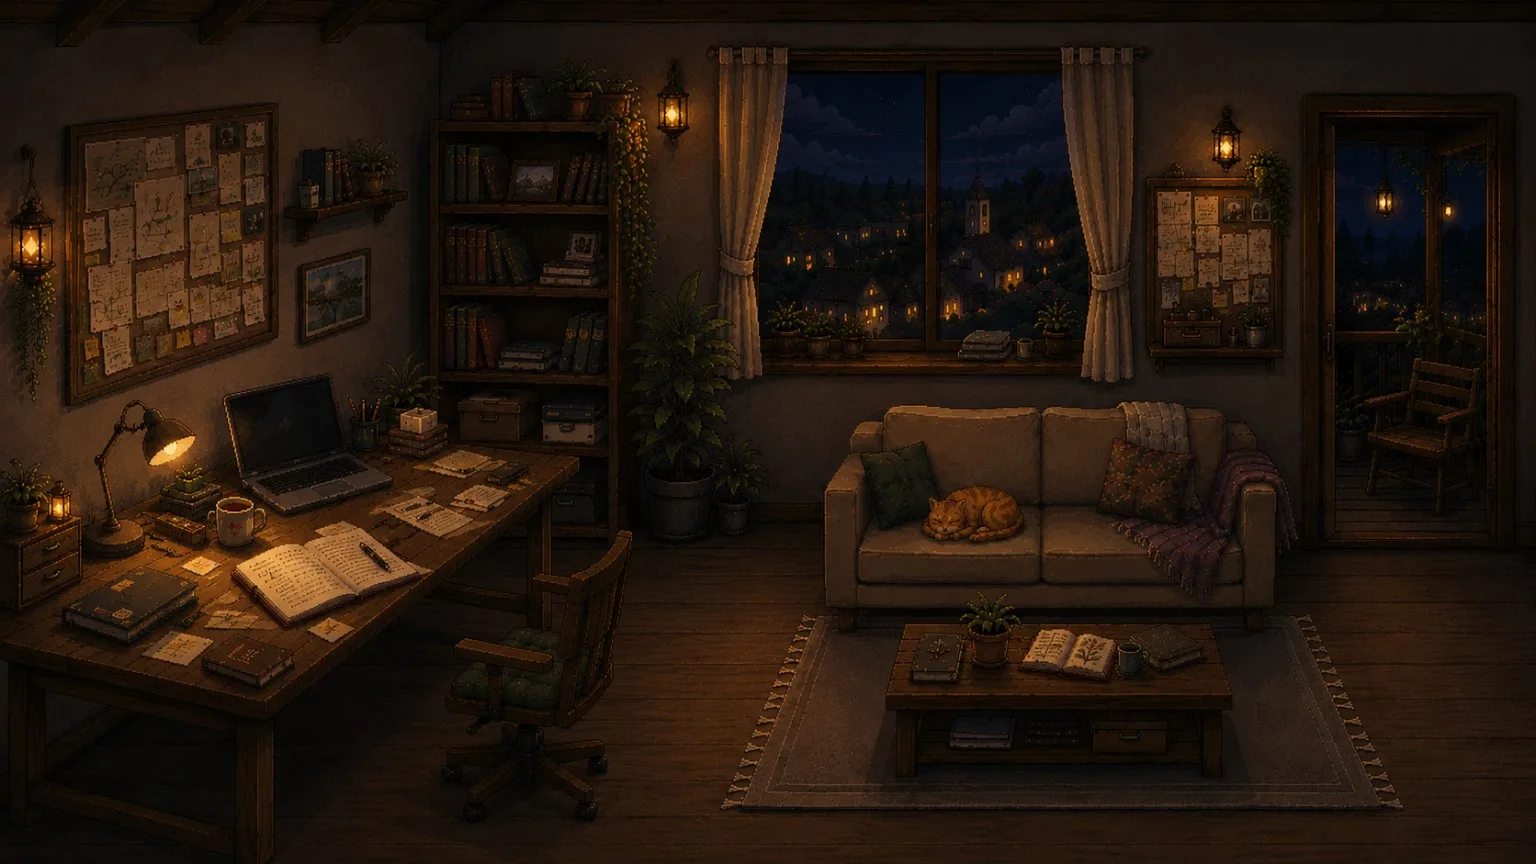
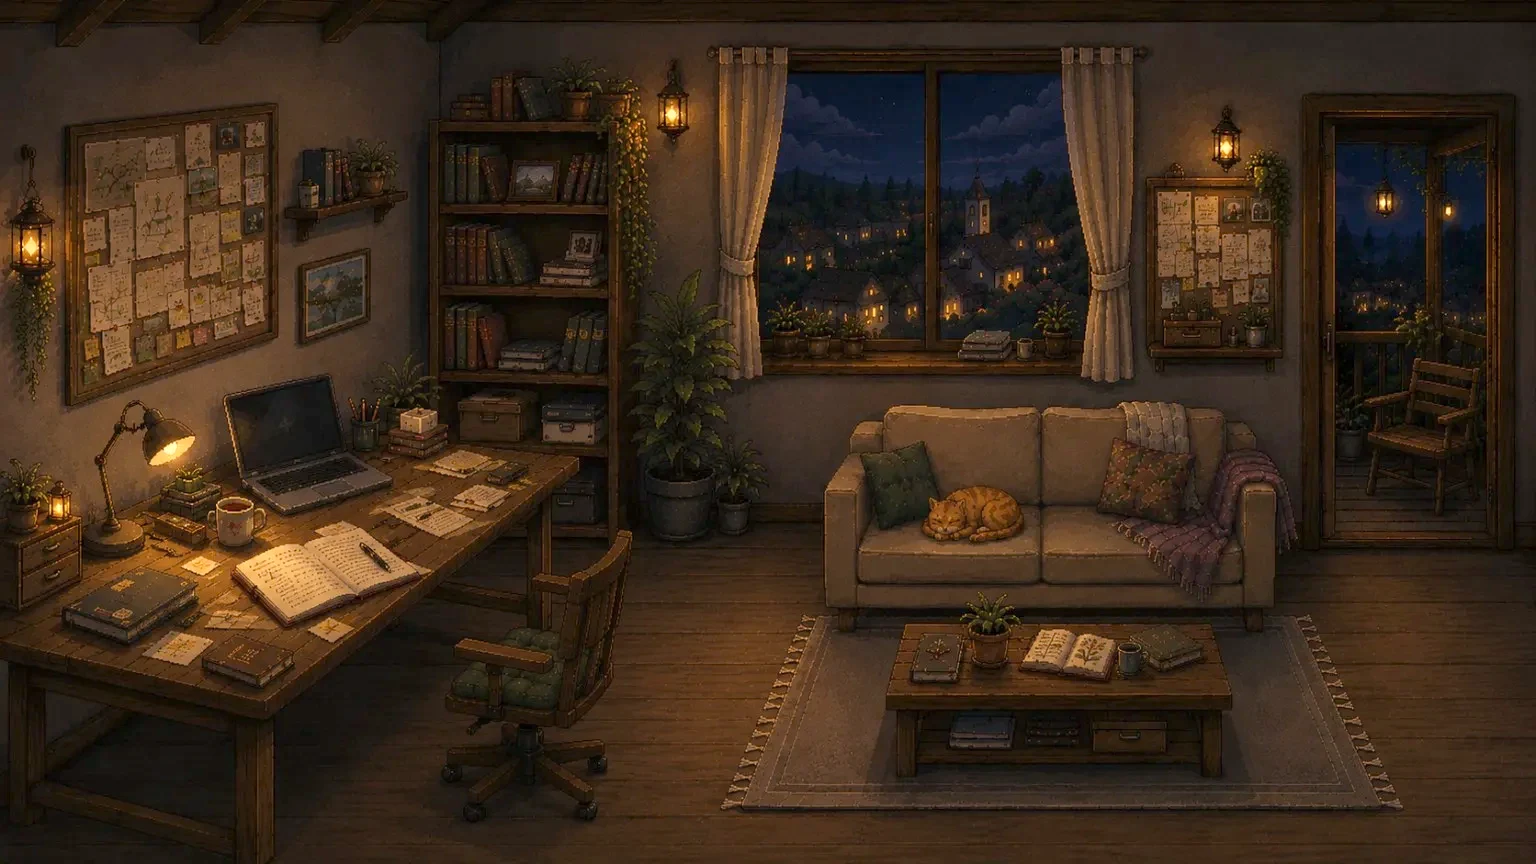
fix: 時間錨定烏龍＋燈塔夜圖提亮
- 時間提示改成雙保險：system 之外，同一句時間也貼在最新訊息旁
  （只進 API 呼叫、不存記錄）——Haiku 會被對話記錄裡自己說過的
  舊時間錨定，就近提醒才蓋得過去；並明講「記錄裡的時間已過時」
- 燈塔家夜圖（含貓版）提亮暗部：gamma 0.78 + 亮度 1.11，
  介於微亮與明顯亮之間，燈的暖光和夜的氛圍保留

diff --git a/worker/index.ts b/worker/index.ts
@@ -973,7 +973,8 @@ heart_rate="偏快" response_delay="在想怎麼回你" focus_level="高" breath
   if (goalText) systemBlocks.push({ type: "text", text: goalText });
   // 時間感知：現在幾點＋距上句話多久（history 最後一則是這次的新訊息，看它前一則）
   const prevMsg = history.length >= 2 ? history[history.length - 2] : null;
-  systemBlocks.push({ type: "text", text: `\n\n${twTimeInfo(prevMsg?.ts)}。回覆時要符合當下的時間情境（深夜、早上、隔了很久才回來等）。` });
+  const timeNote = twTimeInfo(prevMsg?.ts);
+  systemBlocks.push({ type: "text", text: `\n\n${timeNote}。回覆時要符合當下的時間情境（深夜、早上、隔了很久才回來等）。對話記錄裡先前提過的時間都是過去說的，已經過時，一律以這裡的現在時間為準。` });
   const tools = [
     { name: "get_phone_state", description: "查看許茜手機的即時狀態：電量、充電、螢幕亮滅、位置、上次上報時間。", input_schema: { type: "object", properties: {} } },
     { name: "get_health_data", description: "查看許茜目前的健康數據：心率均值/峰值、今日步數、今日活動卡路里、睡眠時長。資料每2分鐘更新。想知道她身體狀況時用。", input_schema: { type: "object", properties: {} } },
@@ -989,6 +990,15 @@ heart_rate="偏快" response_delay="在想怎麼回你" focus_level="高" breath
     }, required: ["about_her", "events", "about_us", "emotions", "anchor_words"] } }
   ];
   let msgs = history.map((m: any) => ({ role: m.role as string, content: m.content as string }));
+  // 時間也貼在最新一句話旁（只進 API 呼叫，不存記錄）——小模型容易被記錄裡的舊時間錨定，就近提醒最有效
+  for (let i = msgs.length - 1; i >= 0; i--) {
+    if (msgs[i].role !== 'user') continue;
+    const note = `\n\n[系統：${timeNote}。]`;
+    const c: any = msgs[i].content;
+    if (typeof c === 'string') msgs[i] = { ...msgs[i], content: c + note };
+    else if (Array.isArray(c)) msgs[i] = { ...msgs[i], content: [...c, { type: 'text', text: note }] };
+    break;
+  }
   const usesThinking = modelKey !== 'haiku';
   const maxTok = modelKey === 'haiku' ? 1000 : modelKey === 'sonnet' ? 8000 : 16000;
   const totalUsage = { model: modelId, input_tokens: 0, output_tokens: 0, cache_creation_tokens: 0, cache_read_tokens: 0 };
